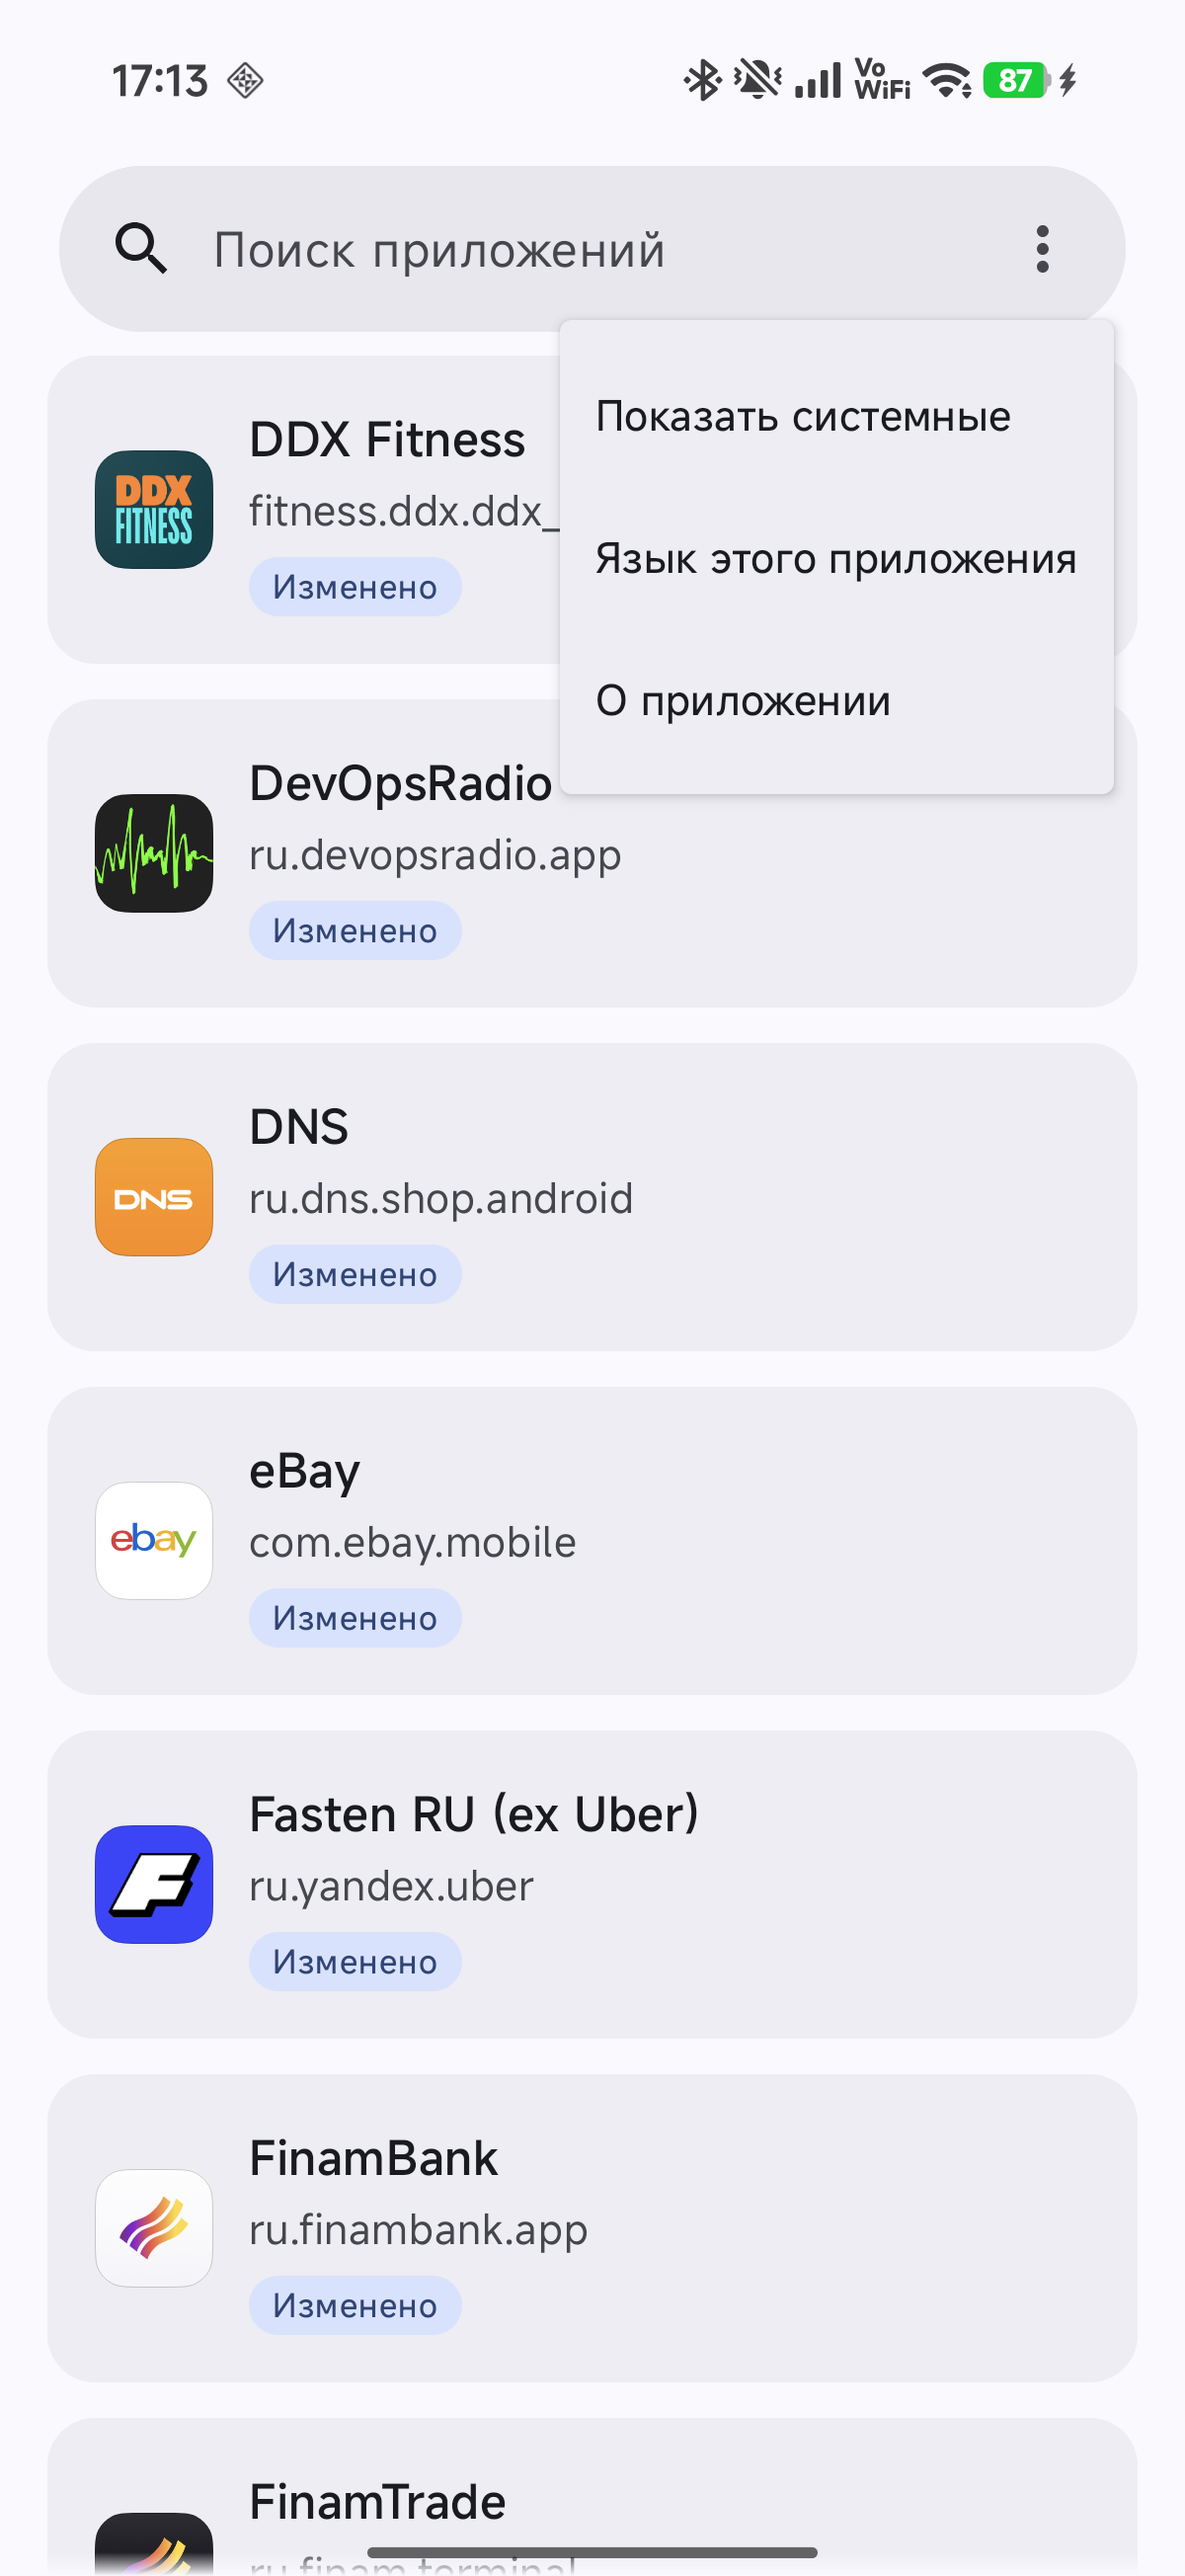
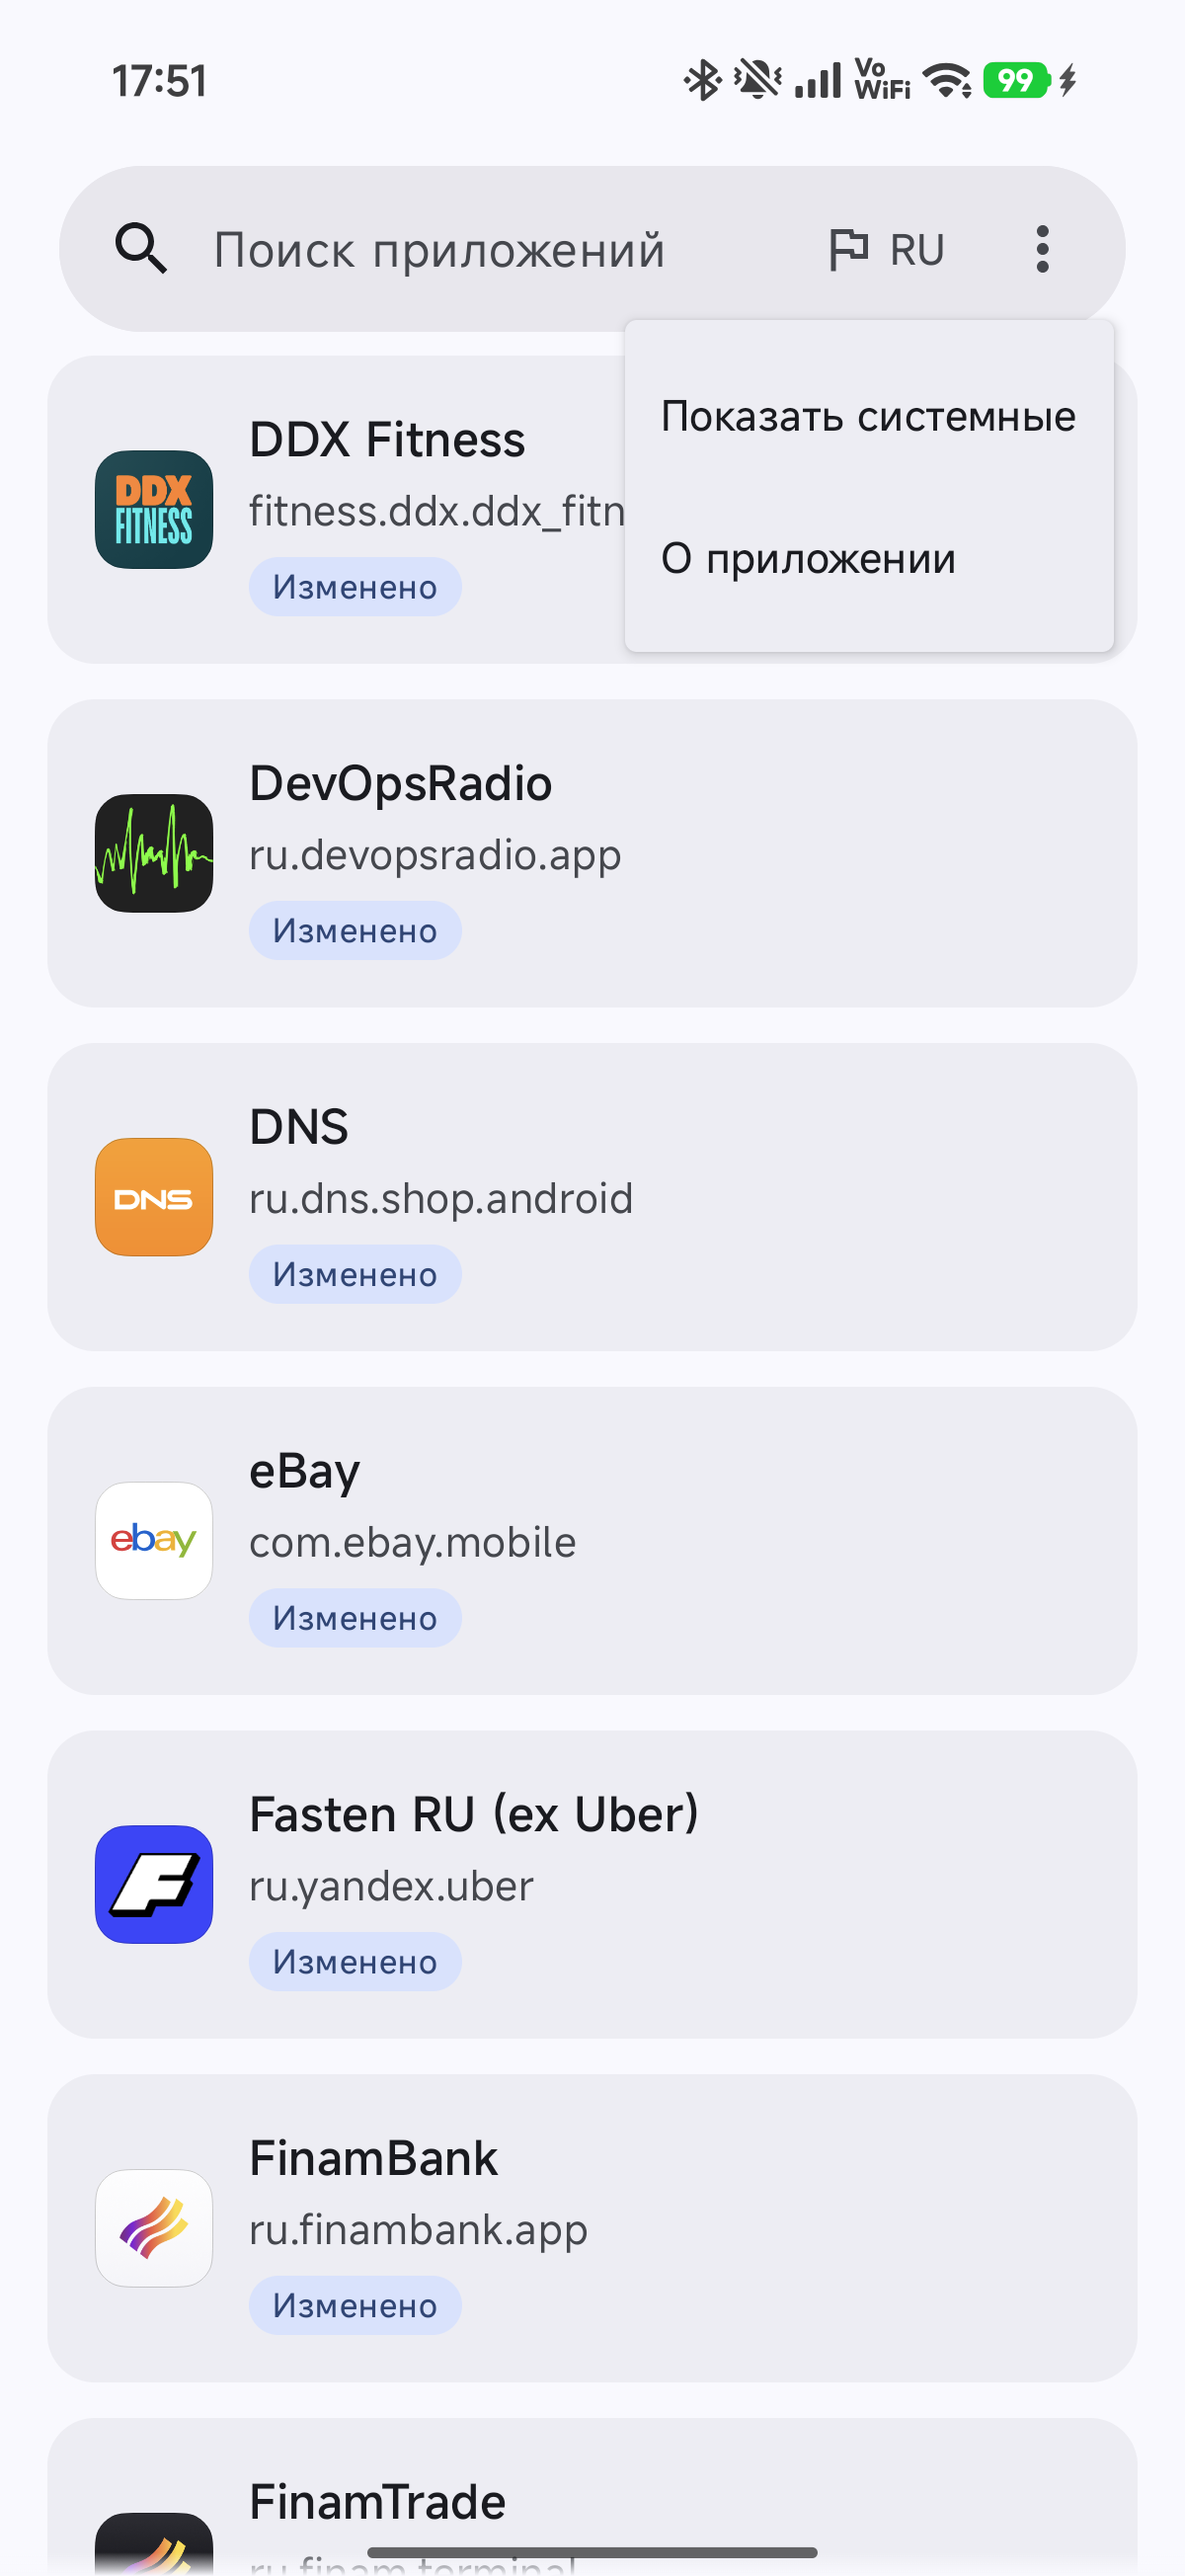
docs: screenshots and texts for 1.2.3

Changed region(s): [[0.4625, 0.1553, 0.8942, 0.2795], [0.7708, 0.2174, 0.8017, 0.2485]]

diff --git a/docs/index.html b/docs/index.html
@@ -121,7 +121,7 @@
     <li>Pick a language: <b>Pinned</b>, <b>User languages</b> or <b>All languages</b>. A language in All languages opens its regions; <b>Search languages</b> finds a language or region by name or tag. The current language has a check mark.</li>
     <li>If the app keeps the old language, tap <b>Restart</b>. <b>Open</b> launches the app, <b>Settings</b> opens its system App info page.</li>
     <li>Long-press a language to pin it. The Quick Settings tile cycles the foreground app through pinned languages.</li>
-    <li>⋮ → <b>This app's language</b> sets the language of Language Selector itself: English, Russian or Chinese (Simplified).</li>
+    <li>The button next to ⋮ in the search bar (flag and language code: EN, RU or ZH) sets the language of Language Selector itself: English, Russian or Chinese (Simplified).</li>
   </ol>
   <ol data-l="ru">
     <li>Вариант A, root: выдайте Language Selector root в KernelSU/APatch (вкладка "Суперпользователь") или Magisk и откройте приложение.</li>
@@ -130,7 +130,7 @@
     <li>Выберите язык: <b>Закреплённые</b>, <b>Языки пользователя</b> или <b>Все языки</b>. Язык в разделе "Все языки" открывает список регионов; <b>Поиск языков</b> находит язык или регион по названию или тегу. Текущий язык отмечен галочкой.</li>
     <li>Если язык не сменился, нажмите <b>Рестарт</b>. <b>Открыть</b> запускает приложение, <b>Настройки</b> открывают его системную страницу "О приложении".</li>
     <li>Долгое нажатие закрепляет язык. Плитка в быстрых настройках переключает открытое приложение между закреплёнными языками.</li>
-    <li>⋮ → <b>Язык этого приложения</b> задаёт язык самого Language Selector: английский, русский или китайский (упрощённый).</li>
+    <li>Кнопка рядом с ⋮ в строке поиска (флаг и код языка: EN, RU или ZH) задаёт язык самого Language Selector: английский, русский или китайский (упрощённый).</li>
   </ol>
 
   <footer>

diff --git a/README.ru.md b/README.ru.md
@@ -76,7 +76,7 @@ Shizuku также забывает разрешение при переуста
 
 **Плитка в быстрых настройках.** Добавьте плитку "Language Selector": нажатие переключает открытое сейчас приложение по кругу между закреплёнными языками. Если закреплённых языков нет, плитка неактивна; системные приложения она не трогает.
 
-**Язык самого приложения.** ⋮ → **Язык этого приложения** открывает системный экран выбора языка для Language Selector. Интерфейс переведён на английский, русский и китайский (упрощённый).
+**Язык самого приложения.** Кнопка рядом с ⋮ в строке поиска (значок флага и двухбуквенный код текущего языка интерфейса: EN, RU или ZH) открывает системный экран выбора языка для Language Selector. Интерфейс переведён на английский, русский и китайский (упрощённый).
 
 **О приложении.** ⋮ → **О приложении** показывает версию и режим подключения, ссылки на исходный код, оригинальный проект и Morphe Manager, а также **Зависимости и библиотеки** с авторами и лицензиями.
 

diff --git a/README.md b/README.md
@@ -76,7 +76,7 @@ The Quick Settings tile works in both modes and cycles through your pinned langu
 
 **Quick Settings tile.** Add the "Language Selector" tile. Tapping it cycles the foreground app through your pinned languages. With no pinned languages the tile shows Unavailable; system apps are skipped.
 
-**This app's language.** ⋮ → **This app's language** opens the system per-app language screen for Language Selector itself. The UI is available in English, Russian and Chinese (Simplified).
+**This app's language.** The button next to ⋮ in the search bar (flag icon and the two-letter code of the current UI language: EN, RU or ZH) opens the system per-app language screen for Language Selector itself. The UI is available in English, Russian and Chinese (Simplified).
 
 **About.** ⋮ → **About** shows the version and the connection mode, links to the source code, the original project and Morphe Manager, and **Dependencies and libraries** with their authors and licenses.
 
